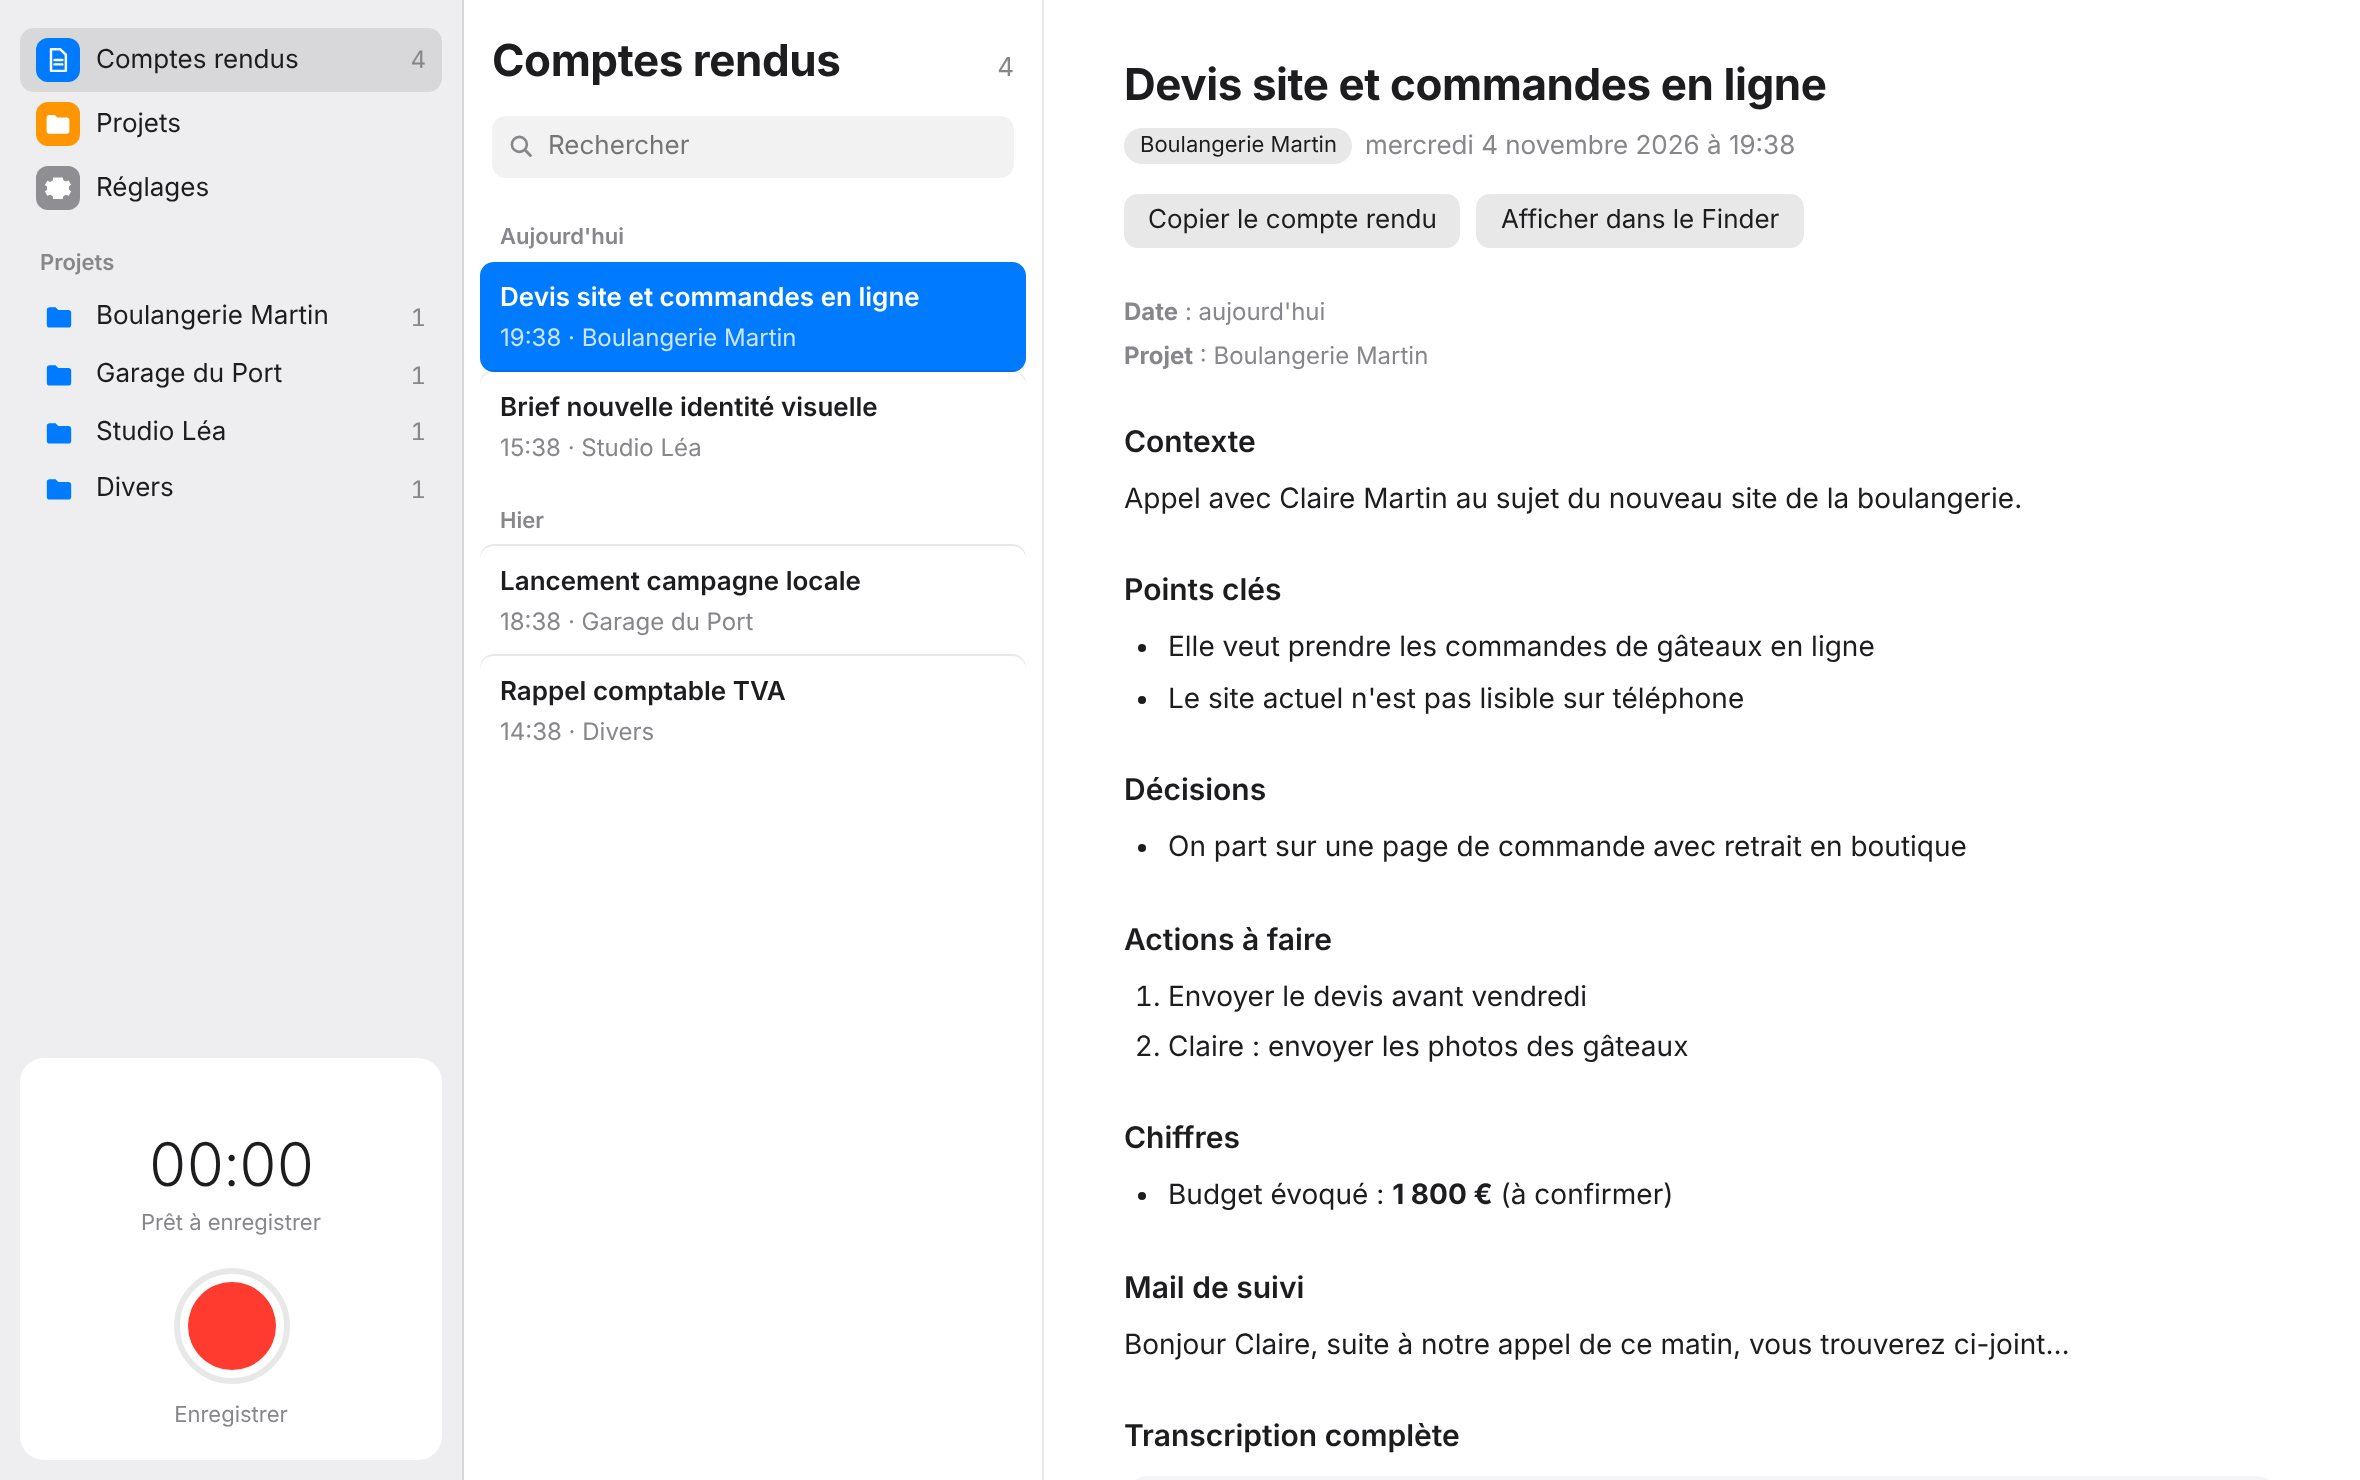
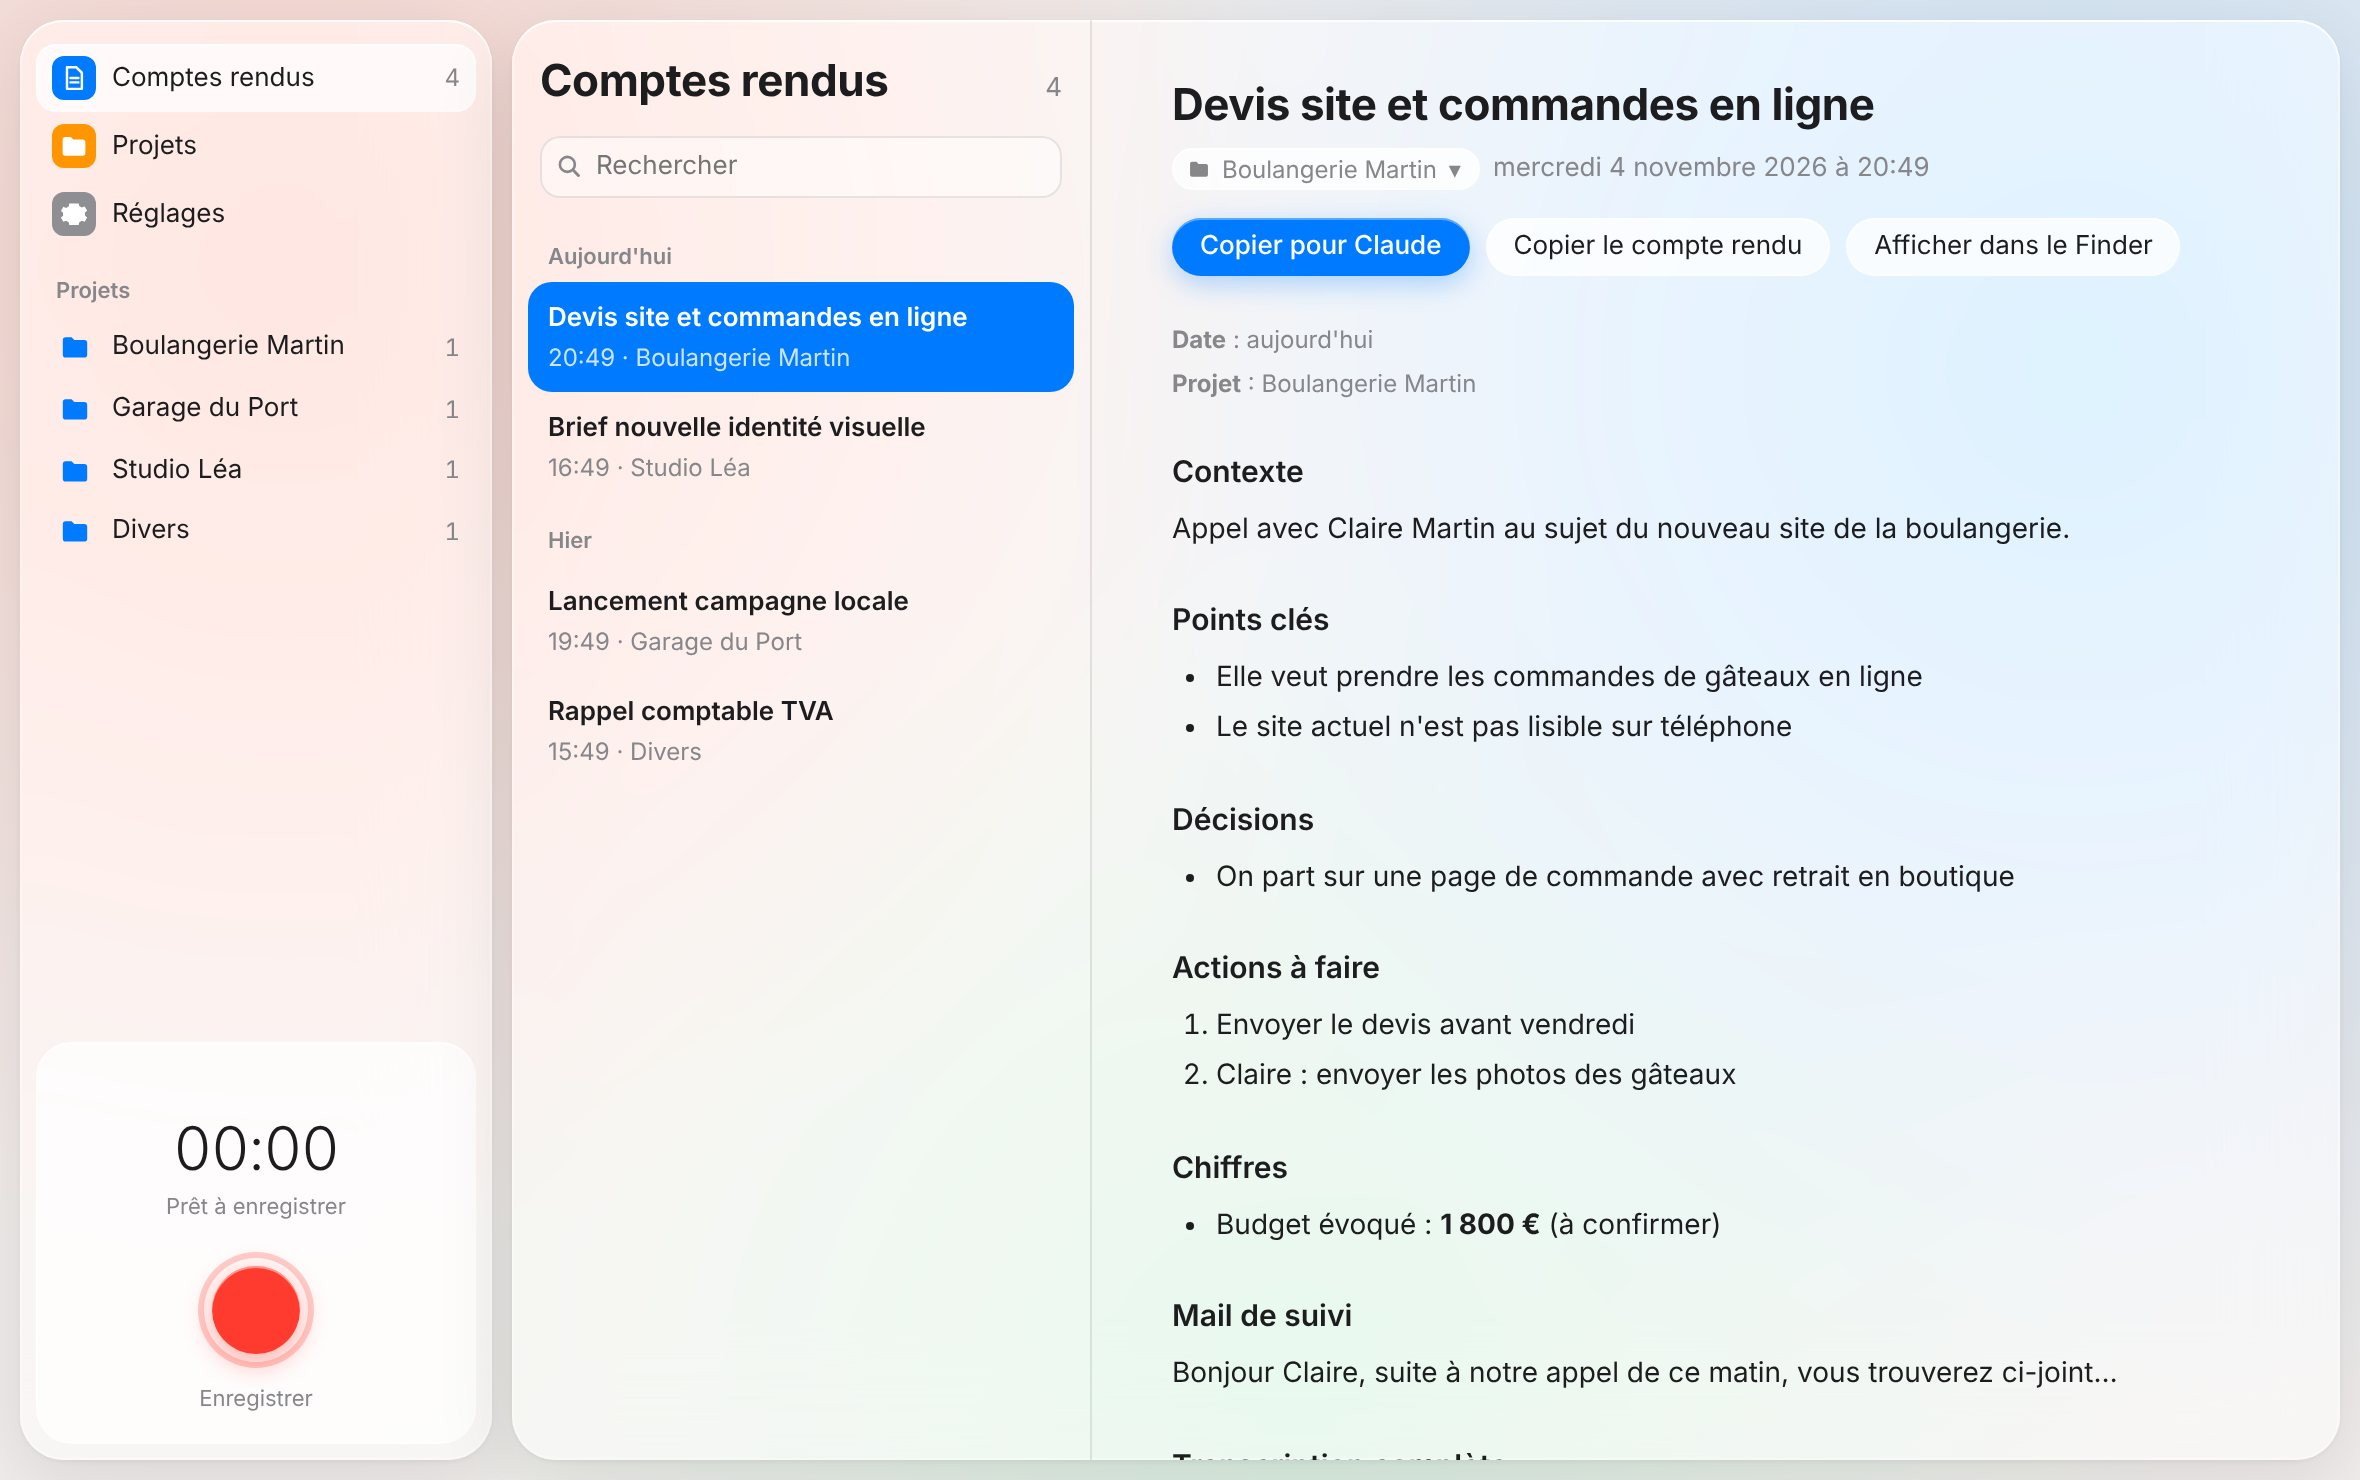
MiroRecap 4.6 : nouvelle icône, site à jour, corrections
- Nouvelle icône Liquid Glass (générée avec Higgsfield)
- Site : captures Liquid Glass, page projet, bouton « Copier pour Claude »
- Les enregistrements interrompus sont remis en traitement au démarrage
- config.json (clé API, jeton) toujours en lecture seule pour l'utilisateur

Claude-Session: https://claude.ai/code/session_01JxQW3Nrv76mn2dxuCeqCZd

diff --git a/docs/index.html b/docs/index.html
@@ -272,7 +272,7 @@
 
       <div class="fenetre">
         <div class="fenetre-barre"><i></i><i></i><i></i><span>MiroRecap</span></div>
-        <img src="img/app-comptes-rendus.jpg" alt="Fenêtre de MiroRecap : la liste des comptes rendus classés par jour et un compte rendu ouvert, avec contexte, points clés et décisions" width="2360" height="1480">
+        <img src="img/app-comptes-rendus.jpg" alt="Fenêtre de MiroRecap en Liquid Glass : la liste des comptes rendus classés par jour et un compte rendu ouvert, avec contexte, points clés et décisions" width="2360" height="1480">
       </div>
     </div>
   </section>
@@ -297,13 +297,14 @@
       <div class="fonction">
         <div class="texte">
           <h3 class="apparait">Un compte rendu prêt à envoyer.</h3>
-          <p class="apparait">Chaque appel donne un document clair, que tu peux relire en trente secondes ou copier en un clic.</p>
+          <p class="apparait">Chaque appel donne un document clair, que tu peux relire en trente secondes. Un clic sur « Copier pour Claude » te donne un contexte compact à coller dans une conversation Claude.</p>
           <ul class="apparait">
             <li>Le contexte et les points clés</li>
             <li>Les décisions prises</li>
             <li>Qui fait quoi, et pour quand</li>
             <li>Les budgets, prix et délais évoqués</li>
             <li>Un mail de suivi déjà rédigé</li>
+            <li>Un bloc de contexte prêt pour Claude</li>
           </ul>
         </div>
         <img class="capture apparait" src="img/app-comptes-rendus.jpg" alt="Compte rendu ouvert dans MiroRecap" width="2360" height="1480" loading="lazy">
@@ -311,10 +312,14 @@
 
       <div class="fonction inverse">
         <div class="texte">
-          <h3 class="apparait">Chaque appel au bon endroit.</h3>
-          <p class="apparait">Crée tes projets, clients ou sujets, avec une phrase de description. Claude lit l'appel et le range dans le bon. Si rien ne correspond, il va dans Divers.</p>
+          <h3 class="apparait">Chaque projet, son point d'étape.</h3>
+          <p class="apparait">Claude range chaque appel dans le bon projet. Sur la page d'un projet, un clic sur « Où on en est ? » et Claude relit tous les appels pour faire le point : décisions, actions en cours, chiffres, prochaines étapes.</p>
+          <ul class="apparait">
+            <li>Toutes les actions à faire, regroupées</li>
+            <li>Un appel mal rangé ? Change-le de projet en un clic</li>
+          </ul>
         </div>
-        <img class="capture apparait" src="img/app-projets.jpg" alt="Liste des projets dans MiroRecap" width="2000" height="1240" loading="lazy">
+        <img class="capture apparait" src="img/app-projet.jpg" alt="Page d'un projet dans MiroRecap : point d'étape rédigé par Claude et actions à faire" width="2000" height="1280" loading="lazy">
       </div>
 
       <div class="fonction">
@@ -322,7 +327,7 @@
           <h3 class="apparait">Ton abonnement Claude, en un clic.</h3>
           <p class="apparait">Tu as Claude Pro ou Max ? Clique sur Se connecter, valide dans ton navigateur, et c'est tout : pas de clé API ni de frais en plus. Sans abonnement, une clé API fonctionne aussi.</p>
         </div>
-        <img class="capture apparait" src="img/app-reglages.jpg" alt="Réglages de MiroRecap : connexion à l'abonnement Claude et choix de l'analyse" width="2000" height="1240" loading="lazy">
+        <img class="capture apparait" src="img/app-reglages.jpg" alt="Réglages de MiroRecap : connexion à l'abonnement Claude et choix de l'analyse" width="2000" height="1280" loading="lazy">
       </div>
     </div>
   </section>

diff --git a/app/app.py b/app/app.py
@@ -85,6 +85,7 @@ def charger_config():
 def sauver_config(config):
     DOSSIER_APP.mkdir(parents=True, exist_ok=True)
     FICHIER_CONFIG.write_text(json.dumps(config, indent=2, ensure_ascii=False), encoding="utf-8")
+    FICHIER_CONFIG.chmod(0o600)  # clé API et jeton : lisibles par toi seul
 
 
 CONFIG = charger_config()
@@ -991,6 +992,12 @@ class App(rumps.App):
         Api.app = self
         self.serveur = http.server.ThreadingHTTPServer(("127.0.0.1", 0), Api)
         threading.Thread(target=self.serveur.serve_forever, daemon=True).start()
+
+        # Enregistrements interrompus (app quittée ou mise à jour pendant un traitement) :
+        # on les remet en traitement au lieu de les laisser bloqués dans _En-cours
+        for f in DOSSIER_ENREG.iterdir():
+            if f.suffix.lower() in EXTENSIONS_AUDIO and f.stat().st_size > 1024:
+                shutil.move(str(f), str(chemin_libre(DOSSIER_IMPORT / f.name)))
 
         threading.Thread(target=self.travailleur, daemon=True).start()
         threading.Thread(target=self.boucle_maj, daemon=True).start()
